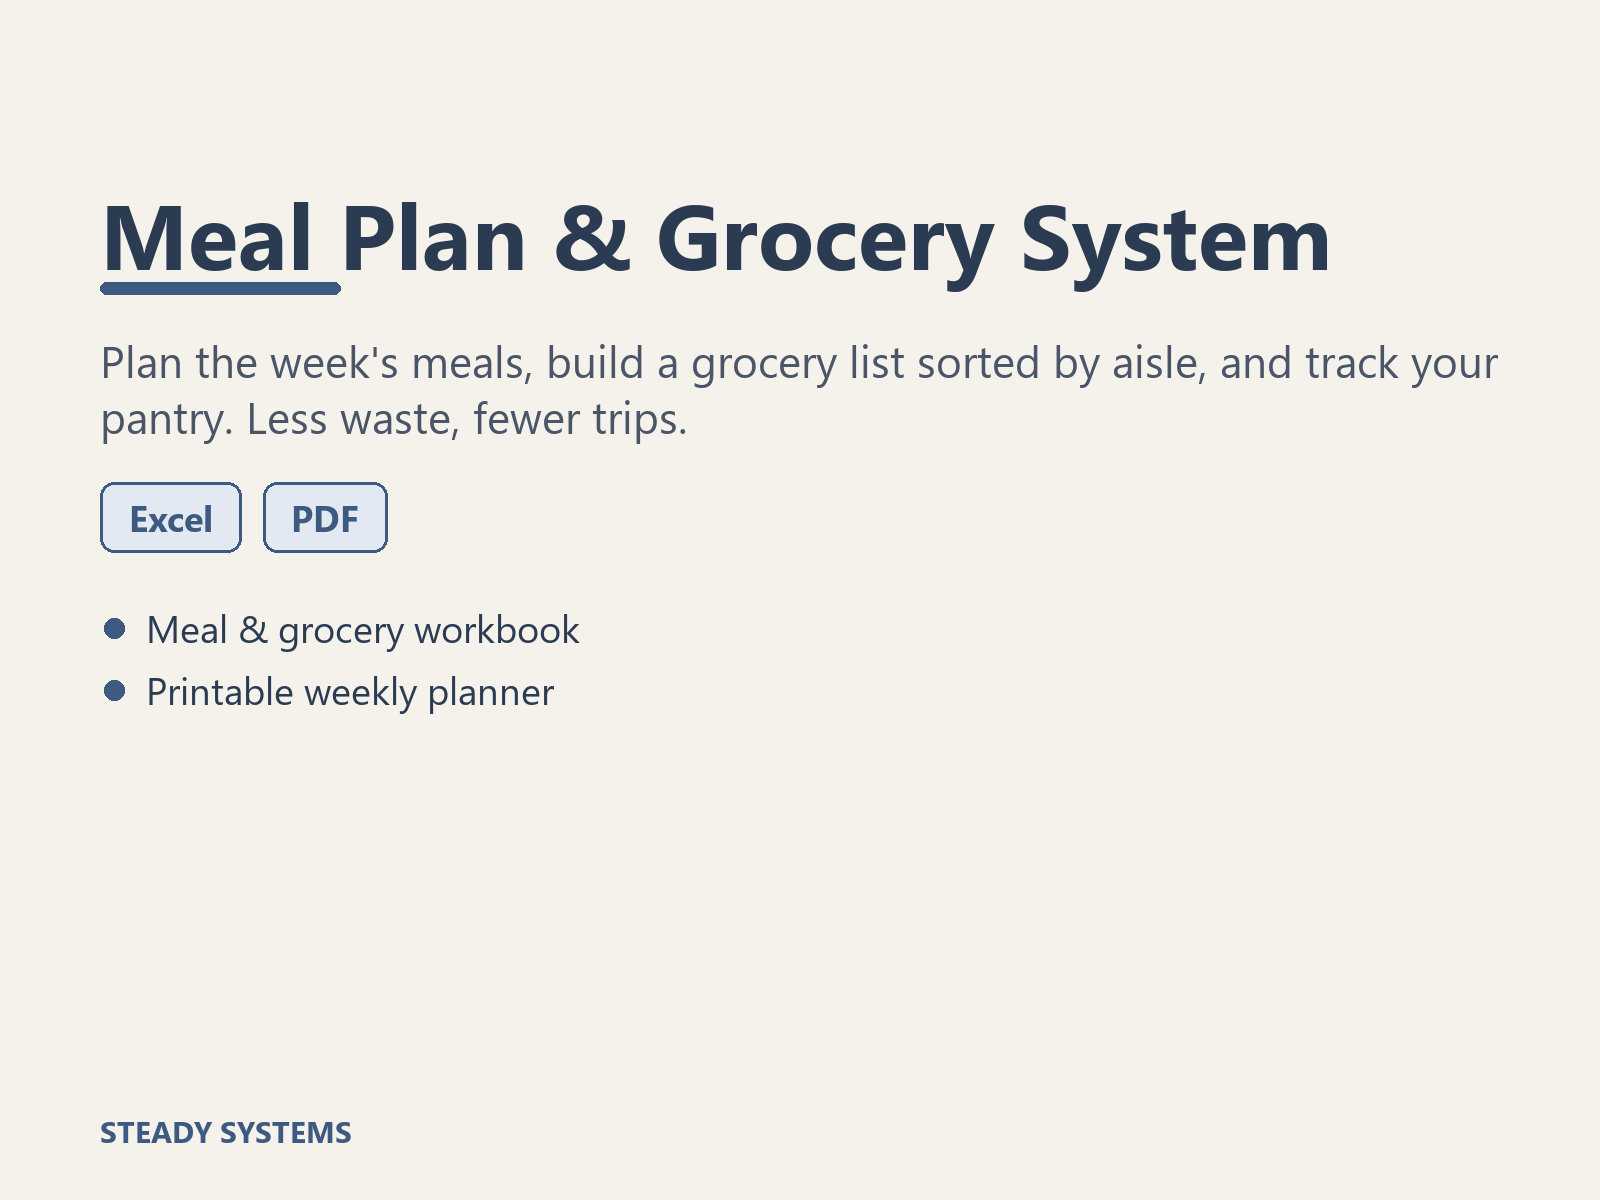
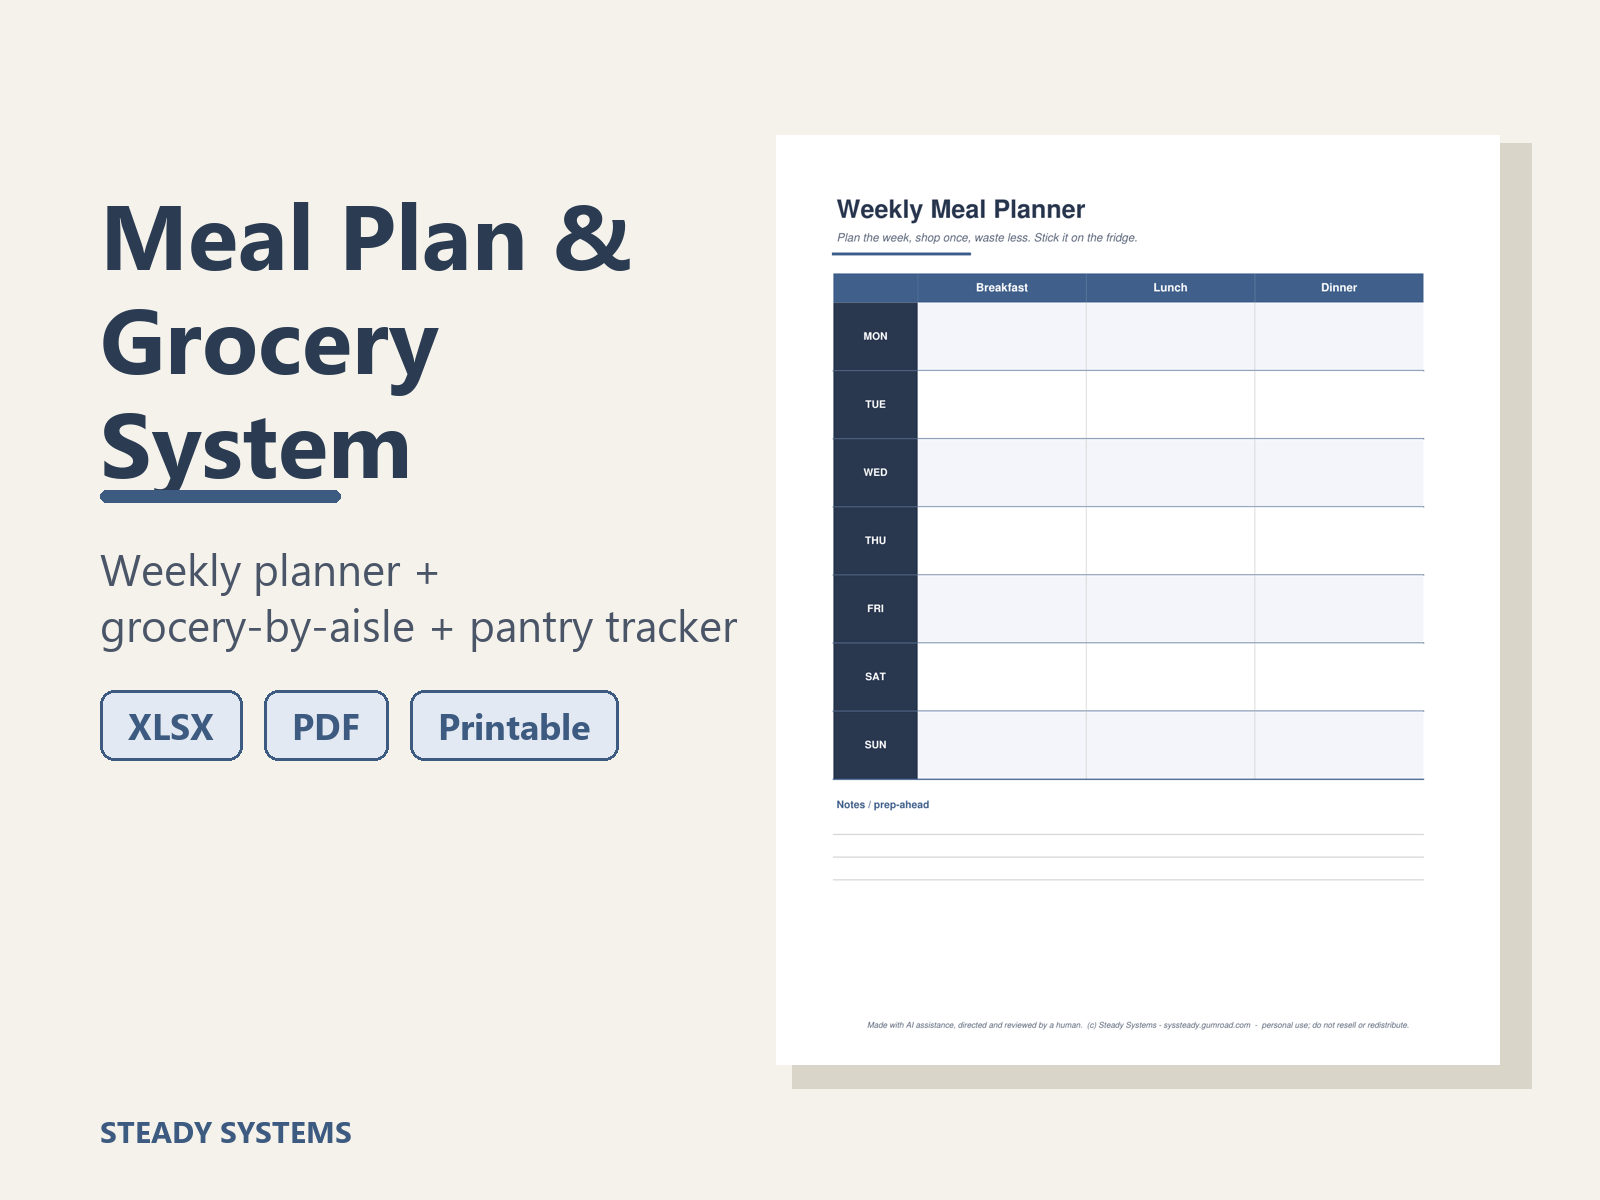
Add Events & Travel packs (158-167) to Steady Systems shop page
Rebuilt via build_shop_page.py from the registry (now 89 products:
18 flagship, 3 bundles, 68 mini). Includes the 10 new event/travel
planning packs now live on Gumroad.

Claude-Session: https://claude.ai/code/session_01RyYX9VLjAtwqdAkZESYGAZ

Changed region(s): [[0.0625, 0.1233, 0.9688, 0.925]]

diff --git a/steady/index.html b/steady/index.html
@@ -95,7 +95,7 @@ footer a{color:var(--amber)}
   <p>Practical, original systems for studying, job-hunting, money and getting organized &mdash; in the formats you
      already use (Excel, Word, PDF, Obsidian/Notion). Every one is a clean instant download.</p>
   <div class="meta">
-    <span class="tag"><b>79</b> products</span>
+    <span class="tag"><b>89</b> products</span>
     <span class="tag">Instant download</span>
     <span class="tag">Personal-use license</span>
     <span class="tag">Made in Dallas, TX</span>
@@ -264,7 +264,7 @@ footer a{color:var(--amber)}
           <img class="shot" src="covers/habit-goal-tracker.png" alt="Habit &amp; Goal Tracker System cover" loading="lazy"></a>
         <div class="top"><h3>Habit &amp; Goal Tracker System</h3><span class="price">$10</span></div>
         <p>A goal cascade that connects: yearly goals break into quarterly focuses into weekly habits, with streak grids.</p>
-        <div class="chips"><span class="chip">Excel</span></div>
+        <div class="chips"><span class="chip">Excel</span><span class="chip">PDF</span><span class="chip">Obsidian</span></div>
         <a class="go" href="https://syssteady.gumroad.com/l/habit-goal-tracker" target="_blank" rel="noopener">Get it on Gumroad &rarr;</a>
       </article>
       <article class="paper">
@@ -399,7 +399,7 @@ footer a{color:var(--amber)}
         <a class="go" href="https://syssteady.gumroad.com/l/new-job-launch-pack" target="_blank" rel="noopener">Get it on Gumroad &rarr;</a>
       </article>
     </div>
-      <h3 class="subhead">Home &amp; life admin <span>45</span></h3>
+      <h3 class="subhead">Home &amp; life admin <span>55</span></h3>
       <div class="shopgrid">
       <article class="paper">
         <a class="shotlink" href="https://syssteady.gumroad.com/l/home-maintenance-pack" target="_blank" rel="noopener">
@@ -760,6 +760,86 @@ footer a{color:var(--amber)}
         <p>Stop paying for tools you forgot about. Track every subscription, its renewal date and true yearly cost, and run a review to cut the dead weight.</p>
         <div class="chips"><span class="chip">PDF</span><span class="chip">Excel</span></div>
         <a class="go" href="https://syssteady.gumroad.com/l/subscriptions-renewals-tracker" target="_blank" rel="noopener">Get it on Gumroad &rarr;</a>
+      </article>
+      <article class="paper">
+        <a class="shotlink" href="https://syssteady.gumroad.com/l/party-planner-pack" target="_blank" rel="noopener">
+          <img class="shot" src="covers/party-planner-pack.png" alt="Party Planner Pack cover" loading="lazy"></a>
+        <div class="top"><h3>Party Planner Pack</h3><span class="price">$5</span></div>
+        <p>Throw a party without the last-minute scramble: a week-by-week planning checklist plus a one-page details and shopping sheet.</p>
+        <div class="chips"><span class="chip">PDF</span></div>
+        <a class="go" href="https://syssteady.gumroad.com/l/party-planner-pack" target="_blank" rel="noopener">Get it on Gumroad &rarr;</a>
+      </article>
+      <article class="paper">
+        <a class="shotlink" href="https://syssteady.gumroad.com/l/guest-rsvp-tracker" target="_blank" rel="noopener">
+          <img class="shot" src="covers/guest-rsvp-tracker.png" alt="Guest List &amp; RSVP Tracker cover" loading="lazy"></a>
+        <div class="top"><h3>Guest List &amp; RSVP Tracker</h3><span class="price">$5</span></div>
+        <p>Keep every invite and reply straight: an Excel RSVP tracker that counts your yeses and headcount, plus a printable list.</p>
+        <div class="chips"><span class="chip">Excel</span><span class="chip">PDF</span></div>
+        <a class="go" href="https://syssteady.gumroad.com/l/guest-rsvp-tracker" target="_blank" rel="noopener">Get it on Gumroad &rarr;</a>
+      </article>
+      <article class="paper">
+        <a class="shotlink" href="https://syssteady.gumroad.com/l/event-budget-pack" target="_blank" rel="noopener">
+          <img class="shot" src="covers/event-budget-pack.png" alt="Event Budget cover" loading="lazy"></a>
+        <div class="top"><h3>Event Budget</h3><span class="price">$5</span></div>
+        <p>Keep an event on budget: an Excel sheet that totals estimated vs actual and shows what&#x27;s left, plus a printable worksheet.</p>
+        <div class="chips"><span class="chip">PDF</span><span class="chip">Excel</span></div>
+        <a class="go" href="https://syssteady.gumroad.com/l/event-budget-pack" target="_blank" rel="noopener">Get it on Gumroad &rarr;</a>
+      </article>
+      <article class="paper">
+        <a class="shotlink" href="https://syssteady.gumroad.com/l/potluck-signup-pack" target="_blank" rel="noopener">
+          <img class="shot" src="covers/potluck-signup-pack.png" alt="Potluck Signup Pack cover" loading="lazy"></a>
+        <div class="top"><h3>Potluck Signup Pack</h3><span class="price">$5</span></div>
+        <p>Run a potluck that actually balances out: a dish signup sheet for guests plus a host planner that tracks gaps by course.</p>
+        <div class="chips"><span class="chip">PDF</span></div>
+        <a class="go" href="https://syssteady.gumroad.com/l/potluck-signup-pack" target="_blank" rel="noopener">Get it on Gumroad &rarr;</a>
+      </article>
+      <article class="paper">
+        <a class="shotlink" href="https://syssteady.gumroad.com/l/gift-tracker-pack" target="_blank" rel="noopener">
+          <img class="shot" src="covers/gift-tracker-pack.png" alt="Gift Tracker Pack cover" loading="lazy"></a>
+        <div class="top"><h3>Gift Tracker Pack</h3><span class="price">$5</span></div>
+        <p>Stay on top of gift-giving all year: an Excel tracker with budget vs spent totals, plus a printable log to catch gift ideas.</p>
+        <div class="chips"><span class="chip">PDF</span><span class="chip">Excel</span></div>
+        <a class="go" href="https://syssteady.gumroad.com/l/gift-tracker-pack" target="_blank" rel="noopener">Get it on Gumroad &rarr;</a>
+      </article>
+      <article class="paper">
+        <a class="shotlink" href="https://syssteady.gumroad.com/l/travel-itinerary-pack" target="_blank" rel="noopener">
+          <img class="shot" src="covers/travel-itinerary-pack.png" alt="Travel Itinerary Pack cover" loading="lazy"></a>
+        <div class="top"><h3>Travel Itinerary Pack</h3><span class="price">$5</span></div>
+        <p>Keep a trip organized: a per-day itinerary plus a one-page reservations and confirmation-number log for flights, lodging and tours.</p>
+        <div class="chips"><span class="chip">PDF</span></div>
+        <a class="go" href="https://syssteady.gumroad.com/l/travel-itinerary-pack" target="_blank" rel="noopener">Get it on Gumroad &rarr;</a>
+      </article>
+      <article class="paper">
+        <a class="shotlink" href="https://syssteady.gumroad.com/l/packing-list-pack" target="_blank" rel="noopener">
+          <img class="shot" src="covers/packing-list-pack.png" alt="Packing List Pack cover" loading="lazy"></a>
+        <div class="top"><h3>Packing List Pack</h3><span class="price">$5</span></div>
+        <p>Pack once, forget nothing: a reusable master packing list by category plus a carry-on essentials and leaving-home checklist.</p>
+        <div class="chips"><span class="chip">PDF</span></div>
+        <a class="go" href="https://syssteady.gumroad.com/l/packing-list-pack" target="_blank" rel="noopener">Get it on Gumroad &rarr;</a>
+      </article>
+      <article class="paper">
+        <a class="shotlink" href="https://syssteady.gumroad.com/l/road-trip-planner-pack" target="_blank" rel="noopener">
+          <img class="shot" src="covers/road-trip-planner-pack.png" alt="Road-Trip Planner Pack cover" loading="lazy"></a>
+        <div class="top"><h3>Road-Trip Planner Pack</h3><span class="price">$5</span></div>
+        <p>Plan a road trip and track the cost: a route-and-stops planner with a pre-trip car check, plus an Excel fuel and expense log.</p>
+        <div class="chips"><span class="chip">Excel</span><span class="chip">PDF</span></div>
+        <a class="go" href="https://syssteady.gumroad.com/l/road-trip-planner-pack" target="_blank" rel="noopener">Get it on Gumroad &rarr;</a>
+      </article>
+      <article class="paper">
+        <a class="shotlink" href="https://syssteady.gumroad.com/l/event-day-of-pack" target="_blank" rel="noopener">
+          <img class="shot" src="covers/event-day-of-pack.png" alt="Event Day-Of Pack cover" loading="lazy"></a>
+        <div class="top"><h3>Event Day-Of Pack</h3><span class="price">$5</span></div>
+        <p>Run event day without the panic: an hour-by-hour timeline with who&#x27;s responsible, plus a one-page vendor and contacts sheet.</p>
+        <div class="chips"><span class="chip">PDF</span></div>
+        <a class="go" href="https://syssteady.gumroad.com/l/event-day-of-pack" target="_blank" rel="noopener">Get it on Gumroad &rarr;</a>
+      </article>
+      <article class="paper">
+        <a class="shotlink" href="https://syssteady.gumroad.com/l/holiday-card-address-list" target="_blank" rel="noopener">
+          <img class="shot" src="covers/holiday-card-address-list.png" alt="Holiday Card Address List cover" loading="lazy"></a>
+        <div class="top"><h3>Holiday Card Address List</h3><span class="price">$5</span></div>
+        <p>Your reusable card and invite address book: an Excel list that&#x27;s mail-merge ready for labels, plus a printable address and card checklist.</p>
+        <div class="chips"><span class="chip">PDF</span><span class="chip">Excel</span></div>
+        <a class="go" href="https://syssteady.gumroad.com/l/holiday-card-address-list" target="_blank" rel="noopener">Get it on Gumroad &rarr;</a>
       </article>
     </div>
     </section>
